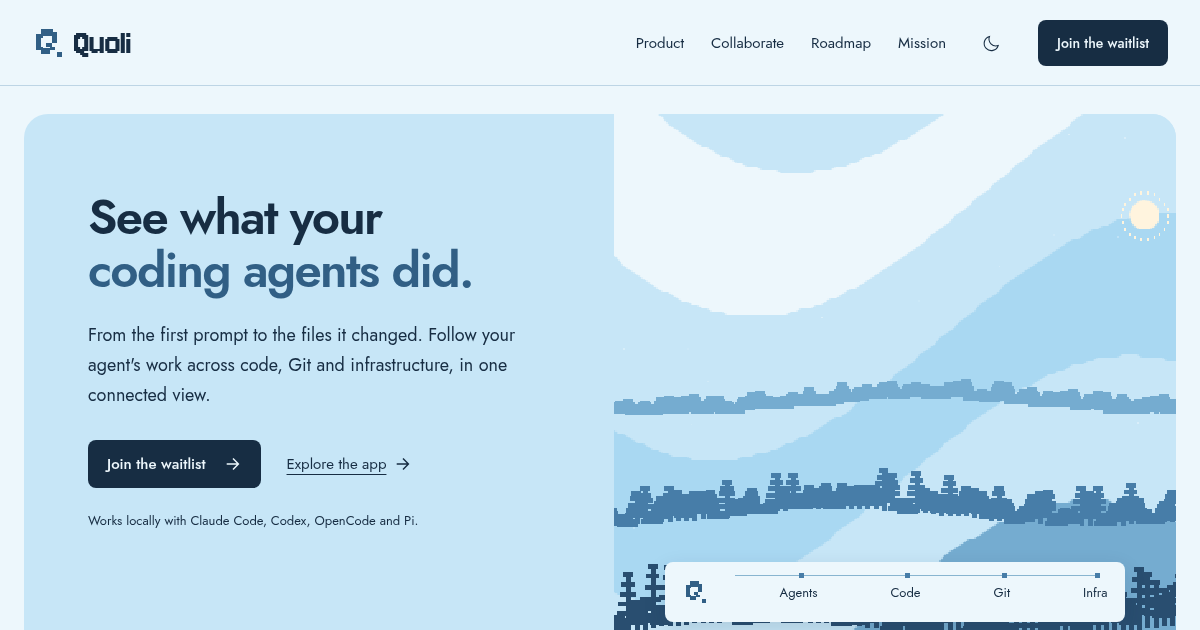
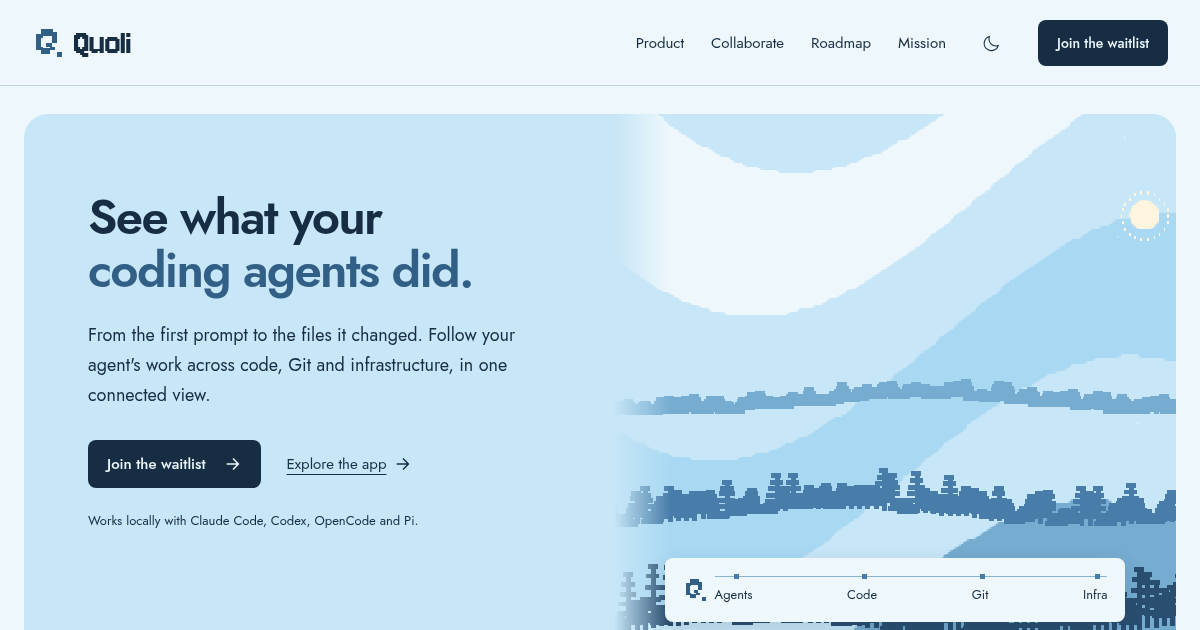
Resolve landing finish review and record the surface direction

diff --git a/web/src/landing/landing.css b/web/src/landing/landing.css
@@ -302,6 +302,7 @@ main {
   min-width: 0;
 }
 .hero-art > canvas {
+  mask-image: linear-gradient(90deg, transparent, #000 56px);
   object-fit: cover;
   object-position: center top;
   position: absolute;
@@ -326,6 +327,14 @@ main {
   width: 24px;
   height: 24px;
 }
+.hero-trace-points {
+  display: flex;
+  flex: 1;
+  justify-content: space-between;
+  gap: 8px;
+  border-top: 1px solid #88b5d0;
+  padding-top: 8px;
+}
 .hero-trace span {
   position: relative;
   font-size: 13px;
@@ -337,17 +346,9 @@ main {
   height: 5px;
   background: #477da8;
   left: 50%;
-  top: -10px;
+  top: -11px;
 }
-.hero-trace::before {
-  content: "";
-  position: absolute;
-  height: 1px;
-  background: #88b5d0;
-  left: 70px;
-  right: 30px;
-  top: 13px;
-}
+
 .lens-index {
   max-width: 1240px;
   margin: 0 auto;
@@ -654,7 +655,7 @@ main {
   padding: 0 32px;
 }
 .chapter-signal {
-  height: 95px;
+  aspect-ratio: 3 / 1;
   max-width: 400px;
   margin: 0 auto 24px;
 }
@@ -1114,7 +1115,7 @@ main {
   .nav-inner nav {
     gap: 18px;
   }
-  .nav-inner nav a:last-child {
+  .nav-inner nav .nav-docs {
     display: none;
   }
   .hero {
@@ -1139,10 +1140,6 @@ main {
   }
   .hero-trace .q-mark {
     display: none;
-  }
-  .hero-trace::before {
-    left: 25px;
-    right: 25px;
   }
   .recording-section {
     gap: 30px;
@@ -1215,6 +1212,9 @@ main {
   .hero-copy > small {
     max-width: none;
   }
+  .hero-art > canvas {
+    mask-image: linear-gradient(180deg, transparent, #000 36px);
+  }
   .hero-art {
     height: 260px;
     margin: 0;
@@ -1226,9 +1226,6 @@ main {
   }
   .hero-trace .q-mark {
     display: block;
-  }
-  .hero-trace::before {
-    left: 65px;
   }
   .lens-index {
     padding: 30px 24px 0;
@@ -1485,6 +1482,10 @@ main {
   #quoli-landing *::after {
     animation: none;
     transition: none;
+  }
+  .terminal-footer button,
+  .motion-control {
+    display: none;
   }
   .terminal-event.pending {
     display: block;

diff --git a/web/src/landing/Landing.tsx b/web/src/landing/Landing.tsx
@@ -482,6 +482,9 @@ export function Landing() {
   }, [page]);
   useEffect(() => {
     document.documentElement.dataset.mode = dark ? "dark" : "light";
+    document
+      .querySelector('meta[name="theme-color"]')
+      ?.setAttribute("content", dark ? "#101f30" : "#edf7fc");
     try {
       localStorage.setItem("quoli.landing.theme", dark ? "dark" : "light");
     } catch {
@@ -503,7 +506,7 @@ export function Landing() {
             <a href="/landing/?page=roadmap">Roadmap</a>
             <a href="/landing/?page=mission">Mission</a>
             {docs && (
-              <a href={`${docs}vision.md`} target="_blank" rel="noreferrer">
+              <a className="nav-docs" href={`${docs}vision.md`} target="_blank" rel="noreferrer">
                 Docs
               </a>
             )}
@@ -554,10 +557,12 @@ export function Landing() {
                 aria-label="One session connects agents, code, Git and infrastructure"
               >
                 <Mark />
-                <span>Agents</span>
-                <span>Code</span>
-                <span>Git</span>
-                <span>Infra</span>
+                <div className="hero-trace-points">
+                  <span>Agents</span>
+                  <span>Code</span>
+                  <span>Git</span>
+                  <span>Infra</span>
+                </div>
               </div>
             </div>
           </section>

diff --git a/.impeccable/surfaces/web-src-landing-landing-tsx.md b/.impeccable/surfaces/web-src-landing-landing-tsx.md
@@ -1,0 +1,16 @@
+---
+version: 1
+slug: "web-src-landing-landing-tsx"
+primary_target: "web/src/landing/Landing.tsx"
+related_targets: ["web/src/landing/landing.css","web/src/landing/PixelScene.tsx","web/src/landing/ui.tsx","web/landing/index.html"]
+---
+
+# Quoli landing
+
+Mode: Persuade. Audience: developers using coding agents. Job: understand how Quoli connects an agent session to code, Git and repository infrastructure; inspect synthetic product evidence; join the waitlist.
+
+Owner-approved baby-blue pixel identity (#159) supersedes the reference-site structural reference. Preserve original pixel scenery and working recorder; ice/baby blue/denim/midnight/cream, stepped open Q with connected pixel. One continuous sky-field hero, readable promise and actions left, original scenery and four-lens trace right. Horizontal product tabs above wide synthetic screenshots; collaboration, signup, small mission link, flat pale-blue footer. No chapter color switch.
+
+Keep the separate app's semantic activity colors unchanged. Current local support: Claude Code, Codex, OpenCode and Pi. Hosted sync and live provider capabilities stay distinguished. Demonstrations never read private evidence; waitlist behavior stays unchanged. Accessibility, mobile, dark theme, keyboard tabs, motion pause and reduced-motion reading remain required.
+
+Design tokens and material: docs/landing-design.md. Implementation: web/src/landing/landing.css. Logo and artwork remain subject to owner visual feedback; trademark clearance has not been performed.

diff --git a/docs/landing-design.md b/docs/landing-design.md
@@ -99,7 +99,9 @@ reflow content rather than clipping it.
 Depth is local: the hero trace, terminal and screenshot use soft offset shadows.
 The page, text sections and footer stay flat. Borders distinguish controls and
 selected tabs. Pixel canvases render at low resolution without smoothing; the
-hero uses object-fit cover to preserve its pixel proportions.
+hero uses object-fit cover to preserve its pixel proportions and a short edge
+mask to merge scenery into the copy field. The chapter signal preserves a 3:1
+aspect ratio. Trace points and connector share one bordered row.
 
 ## Shapes
 
@@ -121,7 +123,8 @@ The same geometry appears in the favicon, header, recorder summary and signup.
   and a retry state. Each image opens at full size.
 - Recorder reels, lamps, paper and terminal stages share the existing synthetic
   session clock. Pause and replay work; offscreen/hidden canvases stop; reduced
-  motion reveals the complete terminal without continuous animation.
+  motion reveals the complete terminal without continuous animation and hides
+  playback controls. Browser theme-color follows the selected theme.
 - Mission, Roadmap and Privacy remain real query-addressed pages. Their footer
   navigation remains available on narrow screens.
 
